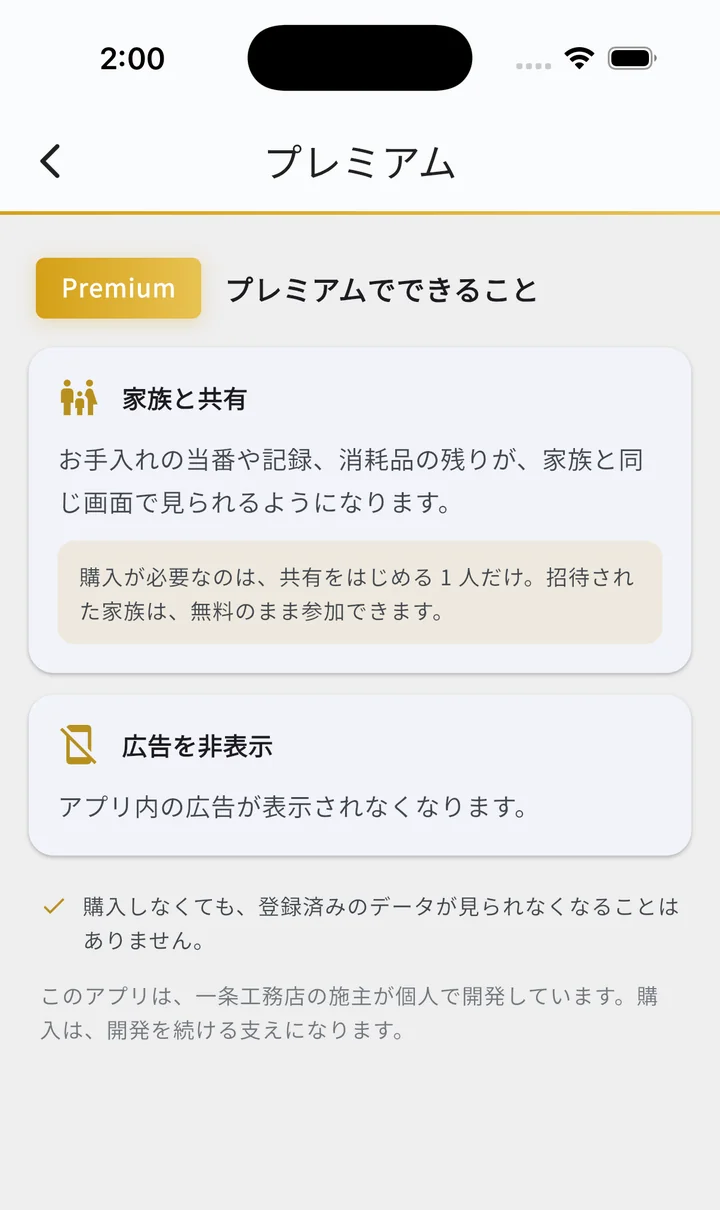
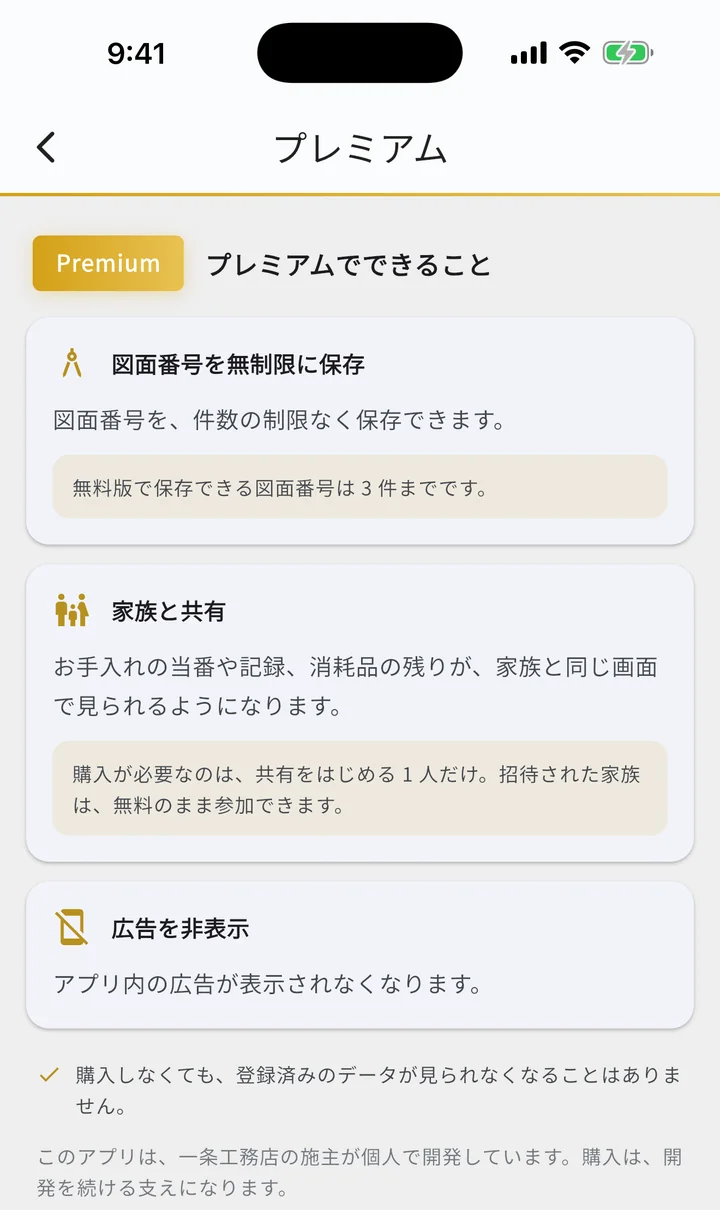
docs: マニュアルに図面番号の上限（無料版）と図面チェックの「その他」を追加し、プレミアムの特典を更新

diff --git a/docs/manual.html b/docs/manual.html
@@ -707,6 +707,7 @@
     <li class="sub"><a href="#import-meeting-material">打ち合わせ資料</a></li>
     <li class="sub"><a href="#import-edit">取り込み後の修正</a></li>
     <li class="sub"><a href="#import-dedupe">重複チェック</a></li>
+    <li class="sub"><a href="#import-drawing-limit">図面番号の上限</a></li>
     <li class="sub"><a href="#import-actions">操作リファレンス</a></li>
   </ul>
 
@@ -727,6 +728,7 @@
     <li><a href="#diff">図面チェック（CAD差分）</a></li>
     <li class="sub"><a href="#diff-overview">画面の基本構成</a></li>
     <li class="sub"><a href="#diff-history">比較履歴</a></li>
+    <li class="sub"><a href="#diff-other">その他の書類を比べる</a></li>
     <li class="sub"><a href="#diff-single">単独図面解析モード</a></li>
     <li class="sub"><a href="#diff-result">差分結果画面</a></li>
     <li class="sub2"><a href="#diff-comments">コメントの表示・非表示</a></li>
@@ -928,7 +930,7 @@
 <p><strong>ICHIJO施主手帳（非公式）</strong>は、一条工務店の施主が自分の打ち合わせを効率化するために作った非公式アプリです。一条公式「iサポ」で届くPDFを取り込むだけで、以下のことが片手でできます。打ち合わせ中はもちろん、入居後にも便利な機能（でんき通信簿・お手入れ当番表・新居生活カウンター等）を順次拡充中です。</p>
 <ul>
   <li><strong>ドキュメント管理</strong>：図面番号ベースでグループ化</li>
-  <li><strong>図面チェック</strong>：CAD・電気図面のピクセル差分を色分け表示</li>
+  <li><strong>図面チェック</strong>：CAD・電気図面のピクセル差分を色分け表示（照明仕様書やカラーパースなどの書類も比べられます）</li>
   <li><strong>見積り管理</strong>：2版比較・推移表</li>
   <li><strong>仕様書チェック</strong>：設備仕様書のセクション別差分</li>
   <li><strong>ウチメモ+</strong>：画面上の位置にピン留めしてメモ</li>
@@ -1081,6 +1083,7 @@
   <li><strong>本文をタップ</strong>：カードでは 3 行までしか出ないので、続きを全文で読めます</li>
   <li><strong>「他◯件」</strong>：同時に出るカードは 1 枚だけです。残りは件数のリンクから<a href="#settings-notices">設定の「お知らせ」</a>へ</li>
 </ul>
+<p>日付の決まった変更のお知らせは、アプリを起動したときに 1 回だけダイアログでも表示されます（「あとで」「詳しく」）。このお知らせは、「閉じる」を押しても、その日付までは間隔をあけてまたカードが出ます。</p>
 
 <div class="callout info">
   <p>閉じたお知らせも、<a href="#settings-notices">設定の「お知らせ」</a>からいつでも読み返せます。</p>
@@ -1184,6 +1187,7 @@
   <a href="#import-from-app">アプリから取りに行く</a>
   <a href="#import-from-outside">外から送り込む</a>
   <a href="#import-dedupe">重複チェック</a>
+  <a href="#import-drawing-limit">図面番号の上限（無料版）</a>
 </div>
 
 <h3 id="import-from-app">アプリから取りに行く（端末内・クラウド）</h3>
@@ -1297,6 +1301,40 @@
 <p>同じ枠に<strong>中身が違うPDF</strong>を取り込もうとしたときは、取り込みの直前に「ファイルの上書き確認」ダイアログが出ます。上書きすると、そのファイルに紐づいていたメモや比較データは初期化されます。どちらも残したいときは、キャンセルして図面番号に枝番を付けると別のファイルとして保存できます。</p>
 <p>ここでいう「同じ枠」は、図面（CAD・電気など）では<strong>種別と<a href="#import-meeting-material">「打ち合わせ資料」の ON / OFF</a>の組み合わせ</strong>です。打ち合わせで書き込みをした版（ON）と元の版（OFF）は<strong>別の枠</strong>なので、同じ図面番号でも上書き確認は出ず、そのまま 2 本目として保存されます。見積りは通し番号、設備仕様書は仕様書番号が枠の基準です。</p>
 
+<div class="callout info">
+  <p>取り込みの途中で失敗したときは、そのとき選んだファイルはどれも取り込まれず、元の状態のままです。すべてのファイルが同一ファイルとして見送られたときも、空の図面番号は残りません。</p>
+</div>
+
+<h3 id="import-drawing-limit">図面番号の上限（無料版）</h3>
+<p><strong>11月1日</strong>から、無料版で保存できる図面番号は <strong>3 件まで</strong>になります。3 件に達したあとも、古い図面番号を削除して入れ替えれば、新しい図面番号を取り込めます。<a href="#settings-premium">プレミアム</a>では、図面番号を件数の制限なく保存できます。くわしくは <a href="drawing-limit.html">無料版の図面番号の上限について</a> をご覧ください。</p>
+<ul>
+  <li><strong>数え方</strong>：<a href="#doc-list">図面番号一覧</a>で 1 行に並ぶ単位で数えます。「2-7」と、枝番を付けた「2-7-1」は、同じ 1 件です</li>
+  <li><strong>保存済みの図面番号へのファイルの追加や差し替え</strong>は、件数に関係なくできます</li>
+  <li><strong>3 件より多く保存している場合</strong>：その件数のまま使い続けられます。新しい図面番号を取り込むときは、同じ数だけ古い図面番号と入れ替えます</li>
+  <li><strong>10月31日まで</strong>：これまでどおり件数の制限なく取り込めます。新しい図面番号が増える取り込みでは、ファイル一覧の先頭に「11月1日から、無料版で保存できる図面番号は 3 件までになります」のお知らせが出ます（取り込みはそのままできます）</li>
+</ul>
+
+<h4>入れ替えの画面（取り込む図面番号を選ぶ）</h4>
+<p>11月1日以降、無料版で上限を超えて新しい図面番号を取り込もうとすると、上書き確認より先に <strong>「取り込む図面番号を選ぶ」</strong> 画面が開きます。</p>
+<ul>
+  <li><strong>新しく取り込む図面番号</strong>：今回新しく増える図面番号と、それぞれのファイル数が並びます。右上の「◯ / ◯ 件」は、選んだ数と選べる数です</li>
+  <li><strong>削除して空ける図面番号（任意）</strong>：保存済みの図面番号が古い順に並びます。削除すると消えるもの（ファイル・メモ・ブックマーク・比較履歴の件数）が行ごとに表示されます。削除する図面番号を選ぶと、その件数だけ多く取り込めます</li>
+  <li><strong>「◯ 件削除して ◯ 件取り込む」</strong>：確認のダイアログ（赤いボタン「削除して取り込む」）のあと、削除と取り込みを一度に行います。途中で失敗したときは、どちらも行われず元の状態のままです</li>
+  <li><strong>「プレミアムにして ◯ 件すべて取り込む」</strong>：<a href="#settings-premium">プレミアムの案内ページ</a>が開きます。購入（または購入の復元）が済むと、削除せずにすべて取り込みます</li>
+  <li><strong>左上の ×</strong>：何もせずに取り込み画面に戻ります</li>
+  <li>選ばなかった図面番号のファイルは取り込まれず、取り込み画面の一覧に残ります。もう一度「◯件を取り込み」を押すと選び直せます</li>
+  <li>今回の中に保存済みの図面番号へのファイルがあるときは、新しい図面番号を選ばずに「保存済みの図面番号の分だけ取り込む」こともできます</li>
+</ul>
+
+<figure class="shot-phone">
+  <img src="images/drawing_swap_import.webp" width="720" height="1564" alt="取り込む図面番号を選ぶ画面。保存している 2-5・2-6・2-7 のうち 2-5 と 2-6 を削除し、新しい 2-8 と 2-9 を取り込む選択をしている状態" loading="lazy" decoding="async">
+  <figcaption>取り込む図面番号を選ぶ（2 件削除して 2 件取り込む例）</figcaption>
+</figure>
+
+<div class="callout info">
+  <p><a href="#doc-metadata-edit">ファイル情報の編集</a>で図面番号を変更して、新しい図面番号が増えるときも、同じ形の <strong>「削除する図面番号を選ぶ」</strong> 画面が開きます（「◯ 件削除して変更する」「プレミアムにして変更する」）。</p>
+</div>
+
 <h3 id="import-actions">操作リファレンス</h3>
 <div class="action-box">
   <div class="action-row"><strong>「タップしてPDFを選択（複数可）」</strong><span>ファイルピッカー起動（複数選択可）</span></div>
@@ -1304,6 +1342,7 @@
   <div class="action-row"><strong>プレビュー行の目アイコン</strong><span>PDF内容をプレビュー</span></div>
   <div class="action-row"><strong>プレビュー行の × アイコン</strong><span>取り込み候補から除外</span></div>
   <div class="action-row"><strong>「◯件を取り込み」</strong><span>選択したPDF全てを登録</span></div>
+  <div class="action-row"><strong>取り込む図面番号を選ぶ：「◯ 件削除して ◯ 件取り込む」</strong><span>確認のあと、削除と取り込みを一度に行う（無料版で上限を超えるとき）</span></div>
 </div>
 
 <!-- ═══════════════════════════════════════════════════════ -->
@@ -1463,6 +1502,7 @@
 </ul>
 <p>これらは変更時に削除されます。<strong>ファイル本体・パース項目・このファイル単体に付けたメモ／ブックマークはそのまま保持</strong>されます。比較や単独解析を一度もしていないファイルでは、確認ダイアログは出ず即時反映されます。</p>
 <p>変更先の図面番号で同名ファイルが既に存在する等、衝突が発生する場合は別エラー「図面番号を変更できません」が表示されて中断します。</p>
+<p>11月1日以降、無料版で図面番号の変更によって新しい図面番号が増え、上限を超えるときは、「削除する図面番号を選ぶ」画面が開きます（<a href="#import-drawing-limit">図面番号の上限</a>）。</p>
 
 <figure class="shot-phone">
   <img src="images/doc_file_edit_dialog_drawing_warning.webp" width="720" height="1564" alt="図面番号変更時の確認ダイアログ" loading="lazy" decoding="async">
@@ -1502,7 +1542,11 @@
 </div>
 
 <div class="callout info">
-  <p>ファイル削除後に、リビジョン内のファイルがすべて無くなった場合は、そのリビジョン自体も自動で整理されます（孤立行は残りません）。</p>
+  <p>ファイル削除後に、リビジョン内のファイルがすべて無くなった場合は、そのリビジョン自体も自動で整理されます（孤立行は残りません）。<a href="#estimate">見積り管理</a>・<a href="#spec">仕様書チェック</a>の一覧から最後のファイルを削除したときも同じです。</p>
+</div>
+
+<div class="callout note">
+  <p>11月1日以降、無料版で図面番号を 3 件より多く保存しているときに図面番号が減る削除をすると、確認ダイアログに「無料版では、削除すると保存できる件数が ◯ 件になります。」と表示されます。削除した分は、あとから取り込み直しても戻りません（<a href="#import-drawing-limit">図面番号の上限</a>）。</p>
 </div>
 
 <div class="gallery">
@@ -1610,12 +1654,12 @@
 
 
 
-<p>CAD図面・電気図面の2バージョンを重ね合わせて、変更箇所を色分け表示する機能です。単独モードで1枚を高画質で開く用途にも使えます。</p>
+<p>CAD図面・電気図面の2バージョンを重ね合わせて、変更箇所を色分け表示する機能です。「<a href="#diff-other">その他</a>」を選ぶと、照明仕様書やカラーパースなどの書類も同じように比べられます。単独モードで1枚を高画質で開く用途にも使えます。</p>
 
 <h3 id="diff-overview">画面の基本構成</h3>
 <ul>
   <li><strong>画面上部のバー</strong>：タイトル「図面チェック」</li>
-  <li><strong>種別セグメント</strong>：CAD図面 ／ 電気図面</li>
+  <li><strong>種別セグメント</strong>：CAD図面 ／ 電気図面 ／ <a href="#diff-other">その他</a></li>
   <li><strong>単独図面解析トグル</strong>：差分ではなく1枚を高画質で開くモードへ切替</li>
   <li><strong>バージョンセレクター</strong>：旧／新の2つのプルダウン（単独モード時は1つ）。<a href="#import-meeting-material">打ち合わせ資料</a>には項目の先頭にアイコンが付き、末尾に「・打ち合わせ資料」と出ます</li>
   <li><strong>凡例</strong>：打ち合わせ資料の版が選択肢に 1 つでもあるときだけ、プルダウンの下に1行だけ出ます（行末の「?」で説明が開きます）</li>
@@ -1650,7 +1694,7 @@
 <h3 id="diff-history">比較履歴</h3>
 <p>選択画面の下部に、過去の比較結果が新しい順に並びます。タップすると前回の状態（フィルタレベルや手動調整値）を保ったまま、すぐに再表示されます。</p>
 <ul>
-  <li>種別アイコン（CAD／電気／単独図面）</li>
+  <li>種別アイコン（CAD／電気／単独図面／その他の書類）</li>
   <li>図面番号（旧 → 新、または「(単独)」）</li>
   <li>実行日時</li>
   <li>メモバッジ（この比較に紐づくメモ件数。0件のときは非表示）</li>
@@ -1675,6 +1719,26 @@
   <img src="images/diff_history_meeting_material.webp" width="720" height="1565" alt="比較履歴の行に付く打ち合わせ資料のアイコン（旧・新それぞれ）" loading="lazy" decoding="async">
   <figcaption>比較履歴の打ち合わせ資料アイコン</figcaption>
 </figure>
+
+<h3 id="diff-other">その他の書類を比べる（「その他」）</h3>
+<p>種別セグメントで <strong>「その他」</strong> を選ぶと、CAD図面・電気図面以外の図面系の書類（照明仕様書、カラーパース、カラー配置図、カラー立面図、プレゼンテーション、種別がその他・未設定のファイル）を 2 つの版で比べられます。見積り・設備仕様書は、それぞれの画面（<a href="#estimate-diff">見積りの2版比較</a>・<a href="#spec-diff">仕様書の2版比較</a>）で比べます。プレミアムでなくても使えます。</p>
+<ul>
+  <li><strong>書類の種類</strong>：比べる書類の種類をプルダウンで選びます。項目は「照明仕様書（3版）」のように、その種類を含む図面番号の数つきで並びます。2 版以上ある種類だけが出ます。1 種類だけのときはプルダウンの代わりに「書類の種類: ◯◯」と表示されます</li>
+  <li><strong>比較するバージョン</strong>：選んだ種類の旧／新を選んで「比較する」を押します</li>
+  <li><strong>比較履歴</strong>：「その他」の比較が、種類の名前つき（例：「照明仕様書 ・ 日時」）で並びます</li>
+  <li>「その他」には単独図面解析のスイッチはありません（2 版の比較だけです）</li>
+  <li>比べられる書類がないときは「比べられる書類がありません。同じ種類の書類が2版以上あると比較できます」と表示されます</li>
+  <li>差分結果画面の使い方は CAD図面と同じです。ただし「調整 ▾」メニューに<a href="#size-alignment">サイズ合わせ</a>は出ません</li>
+</ul>
+
+<figure class="shot-phone">
+  <img src="images/diff_select_other.webp" width="720" height="1564" alt="図面チェックの「その他」。書類の種類でカラー配置図を選び、旧 2-5・新 2-6 を選んだ状態。比較履歴に照明仕様書の比較が並んでいる" loading="lazy" decoding="async">
+  <figcaption>「その他」：書類の種類を選んでから版を選ぶ</figcaption>
+</figure>
+
+<div class="callout note">
+  <p>差分は明るさの違いで検出するため、色だけが変わった箇所（カラーパースの塗り替えなど）は、赤い「削除」の印だけで表示されたり、明るさが同じだと表示されなかったりすることがあります。</p>
+</div>
 
 <h3 id="diff-single">単独図面解析モード</h3>
 <p>差分比較ではなく、1 つの図面を<strong>高画質に変換して開く</strong>モードです。画面上に<strong>ピンメモを残せる</strong>ほか、エクスポート機能で<strong>高画質画像として保存・共有</strong>もできます。</p>
@@ -2032,7 +2096,8 @@
 
 <h3 id="diff-actions">操作リファレンス</h3>
 <div class="action-box">
-  <div class="action-row"><strong>種別セグメント</strong><span>CAD図面 / 電気図面 切替</span></div>
+  <div class="action-row"><strong>種別セグメント</strong><span>CAD図面 / 電気図面 / その他 切替</span></div>
+  <div class="action-row"><strong>「その他」：書類の種類</strong><span>比べる書類の種類を選ぶ</span></div>
   <div class="action-row"><strong>単独図面解析トグル</strong><span>差分モード↔単独モード</span></div>
   <div class="action-row"><strong>プルダウン（旧／新）</strong><span>比較バージョン選択</span></div>
   <div class="action-row"><strong>「比較する」「表示する」</strong><span>差分結果画面へ</span></div>
@@ -4086,8 +4151,9 @@
 </ol>
 
 <h3 id="settings-premium">プレミアム</h3>
-<p>買い切り型の課金です（月額ではありません）。設定の「プレミアムでできること」タイルをタップすると案内ページが開き、内容と価格を確かめてから購入できます。プレミアムでできることは次の 2 つです。</p>
+<p>買い切り型の課金です（月額ではありません）。設定の「プレミアムでできること」タイルをタップすると案内ページが開き、内容と価格を確かめてから購入できます。プレミアムでできることは次の 3 つです。</p>
 <ul>
+  <li><strong>図面番号を無制限に保存</strong>：図面番号を、件数の制限なく保存できます。無料版で保存できる図面番号は 3 件までです（11月1日から。10月31日までは無料版でも制限なく取り込めます）→ <a href="#import-drawing-limit">図面番号の上限</a></li>
   <li><strong>家族と共有</strong>：お手入れ当番表の共有を「はじめる」ことができます。購入が必要なのは共有をはじめる 1 人だけで、招待された家族は無料のまま参加できます → <a href="#maintenance-family">家族と共有</a></li>
   <li><strong>広告を非表示</strong>：アプリ内の広告が表示されなくなります</li>
 </ul>
@@ -4097,6 +4163,7 @@
   <li><strong>機種変更のときは「購入を復元」</strong>：購入ボタンの下にあります。同じ Apple ID／Google アカウントで再インストールした場合、タップで購入状態を復元できます</li>
   <li>購入しなくても、登録済みのデータが見られなくなることはありません</li>
 </ul>
+<p>入れ替えの画面の「プレミアムにして…」から開いたときは、上部に「図面番号を件数の制限なく保存するには、プレミアムが必要です。」と表示され、「図面番号を無制限に保存」のカードが目立つ形になります。すでに購入している方は、特別な手続きなしで図面番号を無制限に保存できます。</p>
 
 <div class="callout info">
   <p>デモモード中はプレミアムセクションが非表示になります（デモでは常に広告なし）。</p>
@@ -4104,7 +4171,7 @@
 
 <div class="shot-grid">
   <figure>
-    <img src="images/premium_page.webp" width="720" height="1210" alt="プレミアム案内ページ。家族と共有・広告を非表示の2つの特典カード" loading="lazy" decoding="async">
+    <img src="images/premium_page.webp" width="720" height="1210" alt="プレミアム案内ページ。図面番号を無制限に保存・家族と共有・広告を非表示の3つの特典カード" loading="lazy" decoding="async">
     <figcaption>プレミアム案内ページ（説明部分）<br><small>価格と購入ボタンは画面下部に固定表示されます</small></figcaption>
   </figure>
   <figure class="shot-phone">
@@ -4246,7 +4313,7 @@
 <p>設定 →「お知らせ」（アプリセクション）から、これまでに届いたお知らせの一覧を開けます。<a href="#home-notice">ホームのカード</a>を閉じたあとで「何だっけ」と読み返すための場所です。</p>
 <ul>
   <li><strong>タップ</strong>：全文がダイアログで開きます</li>
-  <li><strong>状態のラベル</strong>：「表示中」「閉じた」「終了」の 3 つ</li>
+  <li><strong>状態のラベル</strong>：「表示中」「閉じた」「終了」の 3 つ（日付の決まった変更のお知らせは、閉じてもその日付までは「表示中」です）</li>
   <li><strong>1 件も無いとき</strong>：「お知らせはありません」と出ます（このアプリを使いはじめたあとに届いたお知らせだけが並びます）</li>
 </ul>
 
@@ -4327,6 +4394,7 @@
   <li><strong>図面番号・種別が自動検出されない</strong>：取り込み画面のプレビューリストで各項目の<strong>鉛筆アイコン</strong>から手動編集してから「◯件を取り込み」をタップしてください</li>
   <li><strong>iOSで「このアプリで開く」に本アプリが出ない</strong>：既定のPDFビューアが Adobe Acrobat など別アプリに設定されていると選択肢に表示されないことがあります。その場合は<strong>共有メニュー経由</strong>で ICHIJO 施主手帳を選んでください</li>
   <li><strong>取り込んだはずのPDFが増えていない</strong>：<a href="#import-dedupe">重複チェック</a>が効いています。中身が同じPDFは取り込まれず、完了の通知に「（◯件は同一ファイルのためスキップ）」と出ます。取り込み済みのものはドキュメント管理から確認できます</li>
+  <li><strong>取り込もうとすると「取り込む図面番号を選ぶ」画面が出る</strong>：無料版で保存できる図面番号の件数を超えるときの画面です。古い図面番号を削除して入れ替えるか、プレミアムにすると取り込めます → <a href="#import-drawing-limit">図面番号の上限</a></li>
   <li><strong>どうしても取り込めない</strong>：PDFの種類・エラー内容を添えてお問い合わせください</li>
 </ul>
 
